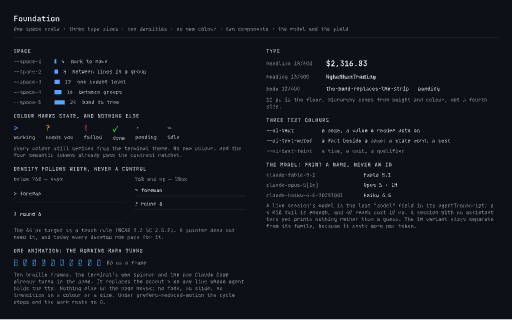
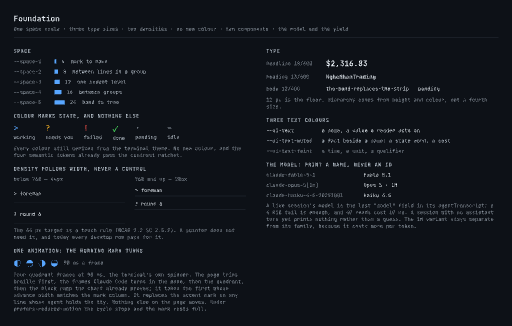
Research three palettes, and measure the spinner glyph
The page's colours derive from the terminal's theme, which is honest and
is also why it has no character: it is whatever GitHub Dark is.

`corpus/palette.md` sets out the fork and three candidates, each drawn
as the same strip in Pencil. The recommendation is rule C — the page
inherits the ground and owns the accents — with the Flux palette: violet
accent, emerald success, amber warning, coral danger, on a ground warmed
off pure black.

Flux wins on the number that counts at 12 px. A mark is one character,
so the closest pair of hues matters more than any ratio, and Flux's
accent sits 97 degrees from its nearest state hue. Signal's cyan sits 46
degrees from its success green; Phosphor's accent is green, so success
has to move to cyan and a mapping every reader knows gets inverted.

All three clear 3.0 on all five bundled themes, and each beats the
current palette's weakest link, danger at 4.18 on one-dark. The ratchet
gains no KNOWN_BELOW entry.

The spinner glyph is measured rather than assumed. Braille is not in
every monospace face and a missing glyph renders as a box, so the page
tries braille, then quadrant, then the block ramp, and takes the first
whose advance width matches the mark column.

Claude-Session: https://claude.ai/code/session_012ztzwyRLLwgnU2inMa4JWu

diff --git a/docs/goals/agent-dashboard/corpus/palette.md b/docs/goals/agent-dashboard/corpus/palette.md
@@ -1,0 +1,101 @@
+# Research: a palette with more character
+
+Measured 2026-09-17. Every contrast ratio below was computed against the
+five bundled terminal themes, not estimated.
+
+## The fork the human has to answer
+
+The page's colours derive from the terminal's theme today: `--ui-bg`
+from `--term-bg`, `--ui-accent` from `--term-accent`. That is honest and
+costs nothing to maintain, and it is also why the page has no character
+of its own — it is whatever GitHub Dark is.
+
+Three ways out, and only the third keeps both properties:
+
+| | The page inherits | The page owns | What it costs |
+|---|---|---|---|
+| **A. Keep inheriting** | everything | nothing | no character, ever |
+| **B. Own it all** | nothing | everything | the page stops matching the pane beside it |
+| **C. Inherit the ground, own the accents** | `bg`, `surface`, `border`, the three text greys | the four state colours | one rule to explain |
+
+**C is the recommendation.** The ground still follows the terminal, so
+the page sits in its world and a light theme still works. The four
+colours that carry meaning become page-owned constants, chosen for hue
+separation rather than inherited by accident.
+
+## The three candidates
+
+Each is drawn as the same strip in the `Palettes` frame: the band, the
+day chart, and one line per state.
+
+| | Accent | Success | Warning | Danger | Ground |
+|---|---|---|---|---|---|
+| **Signal** | `#22d3ee` cyan | `#4ade80` | `#fbbf24` | `#fb7185` | `#0b0f14` cooled |
+| **Flux** | `#a78bfa` violet | `#34d399` | `#fbbf24` | `#f87171` | `#0c0c12` warmed |
+| **Phosphor** | `#7bff9e` green | `#22d3ee` cyan | `#ffb020` | `#ff6b6b` | `#080a09` |
+
+## Contrast, on every bundled theme
+
+Lowest ratio each palette reaches, across `github-dark`, `one-dark`,
+`solarized-dark`, `synthwave-84` and `dracula`:
+
+| Palette | Lowest pair | Ratio |
+|---|---|---|
+| current | danger on `one-dark` | **4.18** |
+| Signal | danger on `one-dark` | **5.20** |
+| Flux | danger on `one-dark` | **5.06** |
+| Phosphor | danger on `one-dark` | **5.04** |
+
+All three clear 3.0 everywhere, and every one of them beats the current
+palette's weakest link. None needs a `KNOWN_BELOW` entry.
+
+## Hue separation, which matters more at 12 px
+
+A mark is one character. Two marks the reader cannot tell apart is a
+worse failure than a low ratio, so the closest pair of hues is the
+number to rank on:
+
+| Palette | Hues | Closest pair |
+|---|---|---|
+| current | 212 · 128 · 41 · 3 | 38° |
+| Signal | 188 · 142 · 43 · 351 | 46° |
+| **Flux** | 255 · 158 · 43 · 0 | **43°, and the accent sits 97° from its nearest state** |
+| Phosphor | 136 · 188 · 39 · 0 | 39° |
+
+**Flux wins the number that counts.** Its accent is violet, which no
+state uses, so the working mark and the bars never read as a state. In
+Signal the cyan accent sits 46° from the success green; in Phosphor the
+accent *is* green and success has to move to cyan, which inverts a
+mapping every reader already knows.
+
+## The recommendation
+
+**Flux**, under rule C.
+
+- Violet is the widest hue any accent can take from green, amber and
+  red at once, so it never competes with a state.
+- It reads as machine rather than as status, which is what an accent on
+  a bar and a spinner should read as.
+- Its ground is warmed a touch off pure black, `#0c0c12`, so the violet
+  does not sit on a dead ground.
+
+**Phosphor** is the boldest and the most fun, and it is the one to take
+if the human wants the page to look like a terminal from across the
+room. The cost is real and should be stated: success stops being green.
+
+## The spinner glyph
+
+`design-foundation.md` names a braille spinner because that is what
+Claude Code turns in the pane. Braille is not in every monospace face,
+and a missing glyph renders as a box, which is worse than no animation.
+
+**The page tries three in order and takes the first whose advance width
+matches the mark column:**
+
+1. braille `⠋ ⠙ ⠹ ⠸ ⠼ ⠴ ⠦ ⠧ ⠇ ⠏` — matches the pane;
+2. quadrant `◐ ◓ ◑ ◒` — Geometric Shapes, far wider coverage;
+3. the block ramp `▁ ▃ ▅ ▇` — the chart already proves it renders.
+
+The round measures each candidate with a canvas advance-width check in
+the page's own font stack and pins the result in a test. It does not
+guess, and it does not ship a box.

diff --git a/docs/goals/agent-dashboard/corpus/design-foundation.md b/docs/goals/agent-dashboard/corpus/design-foundation.md
@@ -12,7 +12,8 @@ number in them is read from the live daemon on 2026-09-17:
 | `Dashboard 390` | the same page on a phone, 44 px lines, facts dropped, the yield block kept |
 | `Foundation` | the space scale, the type scale, the state marks, the two densities, the model naming rule |
 | `Anatomy of a line` | the line's six cells and the order its facts drop in |
-| `Value groupings` | the `VALUE` panel at each of its four groupings, with real rows |
+| `Value groupings` | the `WHERE` panel at each of its four groupings, with real rows |
+| `Palettes` | the same strip in Signal, Flux and Phosphor, with the spinner candidates below |
 
 Exports of the four frames sit beside this file as `01-*.png`. A written
 specimen of the same contract, with the before-image and the
@@ -46,13 +47,18 @@ Five, in order. When two conflict, the earlier one wins.
    gradient, no icon font.
 
    **One thing moves, and only one.** The mark on a line whose agent
-   holds the tty turns through the ten braille frames
-   `⠋ ⠙ ⠹ ⠸ ⠼ ⠴ ⠦ ⠧ ⠇ ⠏` at 80 ms a frame — the terminal's own spinner,
-   and the one Claude Code already turns in the pane. It is a character
-   cycle, not a CSS transition, so it costs no layout and it reads at a
-   glance from across a room. Everything else is still: no fade, no
-   slide, no transition on a colour or a size. Under
-   `prefers-reduced-motion` the cycle stops and the mark rests on `⠿`.
+   holds the tty turns, at 90 ms a frame. It is a character cycle, not a
+   CSS transition, so it costs no layout and it reads at a glance from
+   across a room. Everything else is still: no fade, no slide, no
+   transition on a colour or a size. Under `prefers-reduced-motion` the
+   cycle stops and the mark rests full.
+
+   **The glyph is measured, not assumed.** A missing glyph renders as a
+   box, which is worse than no animation, and braille is not in every
+   monospace face. The page tries three cycles in order and takes the
+   first whose advance width matches the mark column: braille
+   `⠋ ⠙ ⠹ ⠸ ⠼ ⠴ ⠦ ⠧ ⠇ ⠏`, which matches the pane; quadrant `◐ ◓ ◑ ◒`;
+   then the block ramp `▁ ▃ ▅ ▇`, which the chart already proves.
 5. **Colour marks state and nothing else.** Text is one of three greys.
    The four semantic colours appear on the one-character mark at the
    start of a line, and nowhere else.
@@ -202,14 +208,26 @@ Every interactive target below 768 px is 44 px tall. Above it, 28 px.
 
 ### Colour
 
-No new colour. Four semantic tokens already exist and already pass the
-contrast ratchet on every bundled theme:
+**The page inherits the ground and owns the accents.** `bg`, `surface`,
+`border` and the three text greys keep deriving from the terminal's
+theme, so the page sits in its world and a light terminal still works.
+The four colours that carry meaning are the page's own constants,
+chosen for hue separation rather than inherited by accident.
 
-`--ui-accent` working · `--ui-warning` needs you · `--ui-danger` failed ·
-`--ui-success` done.
+`corpus/palette.md` holds the measurements and three candidates. The
+recommendation is **Flux**, pending the human's pick:
+
+| Role | Flux | Why |
+|---|---|---|
+| `--ui-accent` working, bars | `#a78bfa` violet | 97° from its nearest state hue, so it never reads as one |
+| `--ui-success` done | `#34d399` | |
+| `--ui-warning` needs you | `#fbbf24` | |
+| `--ui-danger` failed | `#f87171` | |
 
 They paint the mark glyph. They never paint text, a background, or a
-border.
+border. The lowest ratio any pair reaches on any bundled theme is 5.06,
+against 4.18 for the palette the page has today, so the ratchet gains no
+`KNOWN_BELOW` entry.
 
 ## The frame
 
